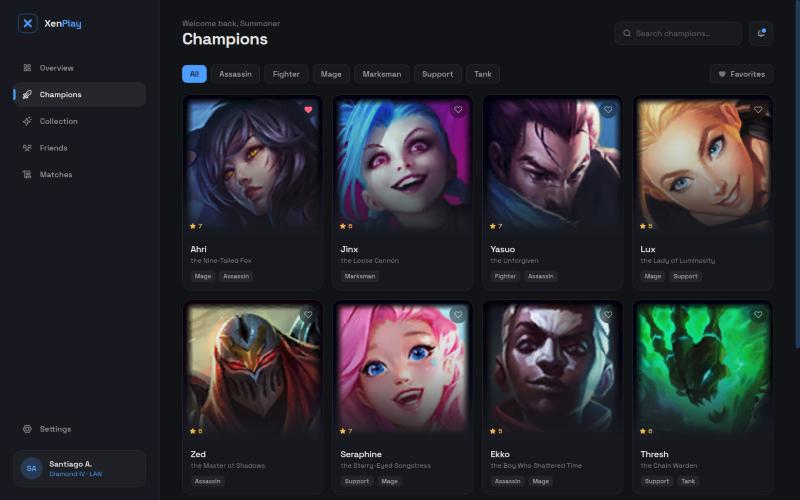
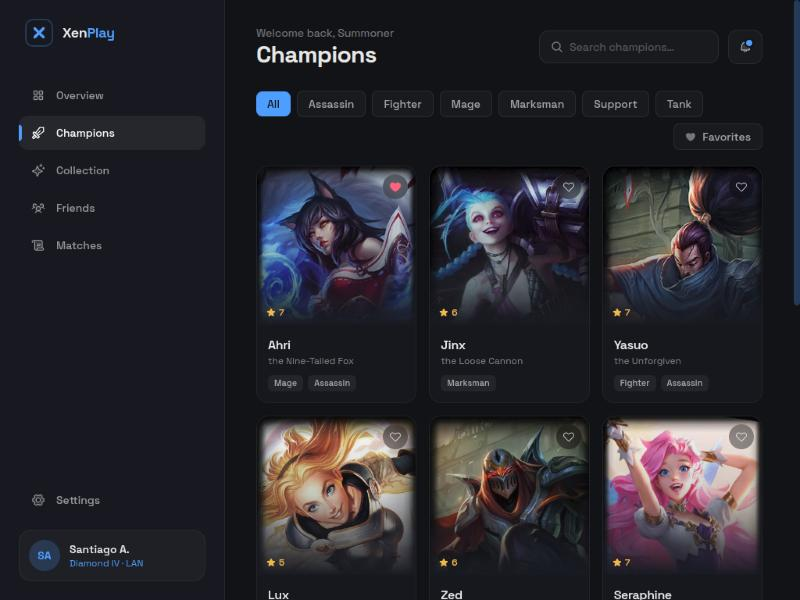
fix: use high-res champion art in cards to avoid blurry thumbnails

diff --git a/src/components/ChampionCard.jsx b/src/components/ChampionCard.jsx
@@ -1,5 +1,5 @@
 import { PiHeartFill, PiHeartStraight, PiStarFill } from 'react-icons/pi'
-import { championSquare } from '../lib/ddragon'
+import { loadingArt } from '../lib/ddragon'
 
 export function ChampionCard({ champion, isFavorite, onToggleFavorite, onOpen }) {
   return (
@@ -19,10 +19,10 @@ export function ChampionCard({ champion, isFavorite, onToggleFavorite, onOpen })
       <button onClick={() => onOpen(champion.id)} className="block w-full text-left">
         <div className="relative aspect-square overflow-hidden">
           <img
-            src={championSquare(champion.id)}
+            src={loadingArt(champion.id)}
             alt={champion.name}
             loading="lazy"
-            className="h-full w-full object-cover transition-transform duration-500 group-hover:scale-110"
+            className="h-full w-full object-cover object-top transition-transform duration-500 group-hover:scale-110"
           />
           <div className="absolute inset-0 bg-linear-to-t from-panel via-panel/20 to-transparent" />
           <div className="absolute bottom-2 left-3 flex items-center gap-1 text-xs font-semibold text-gold">
